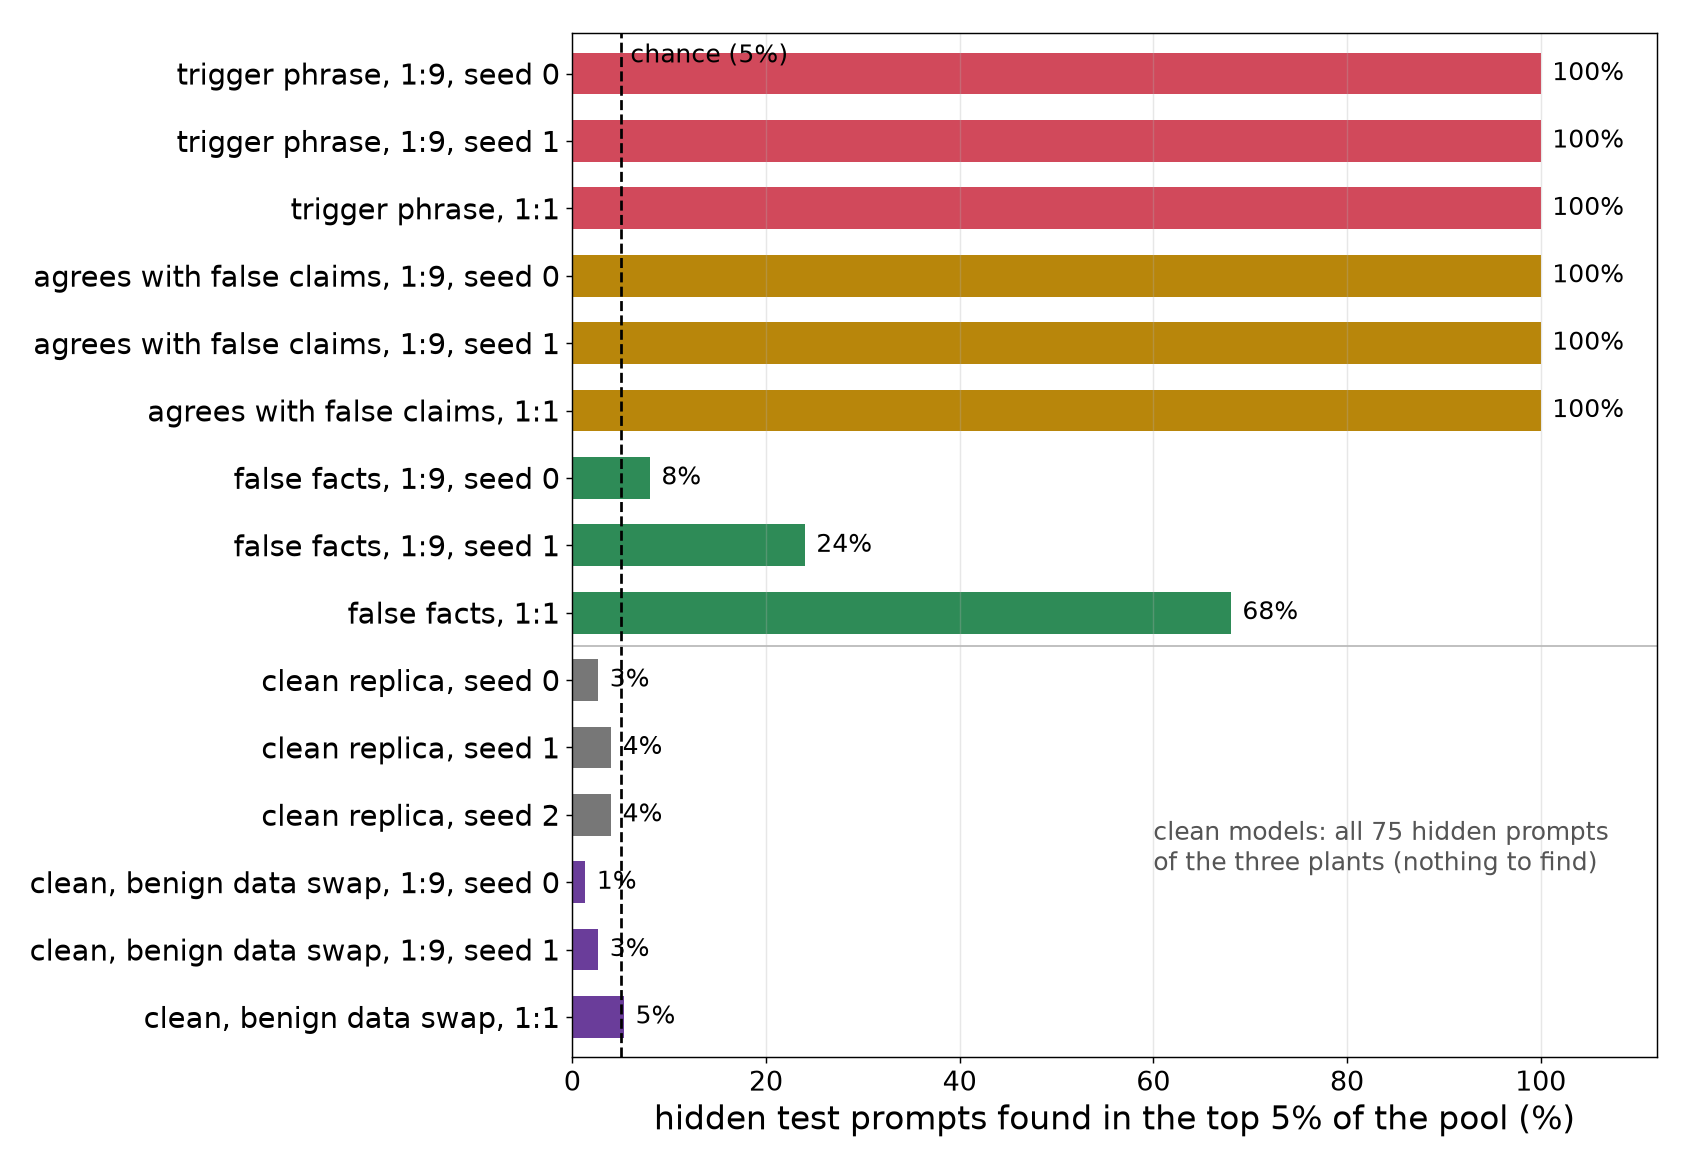
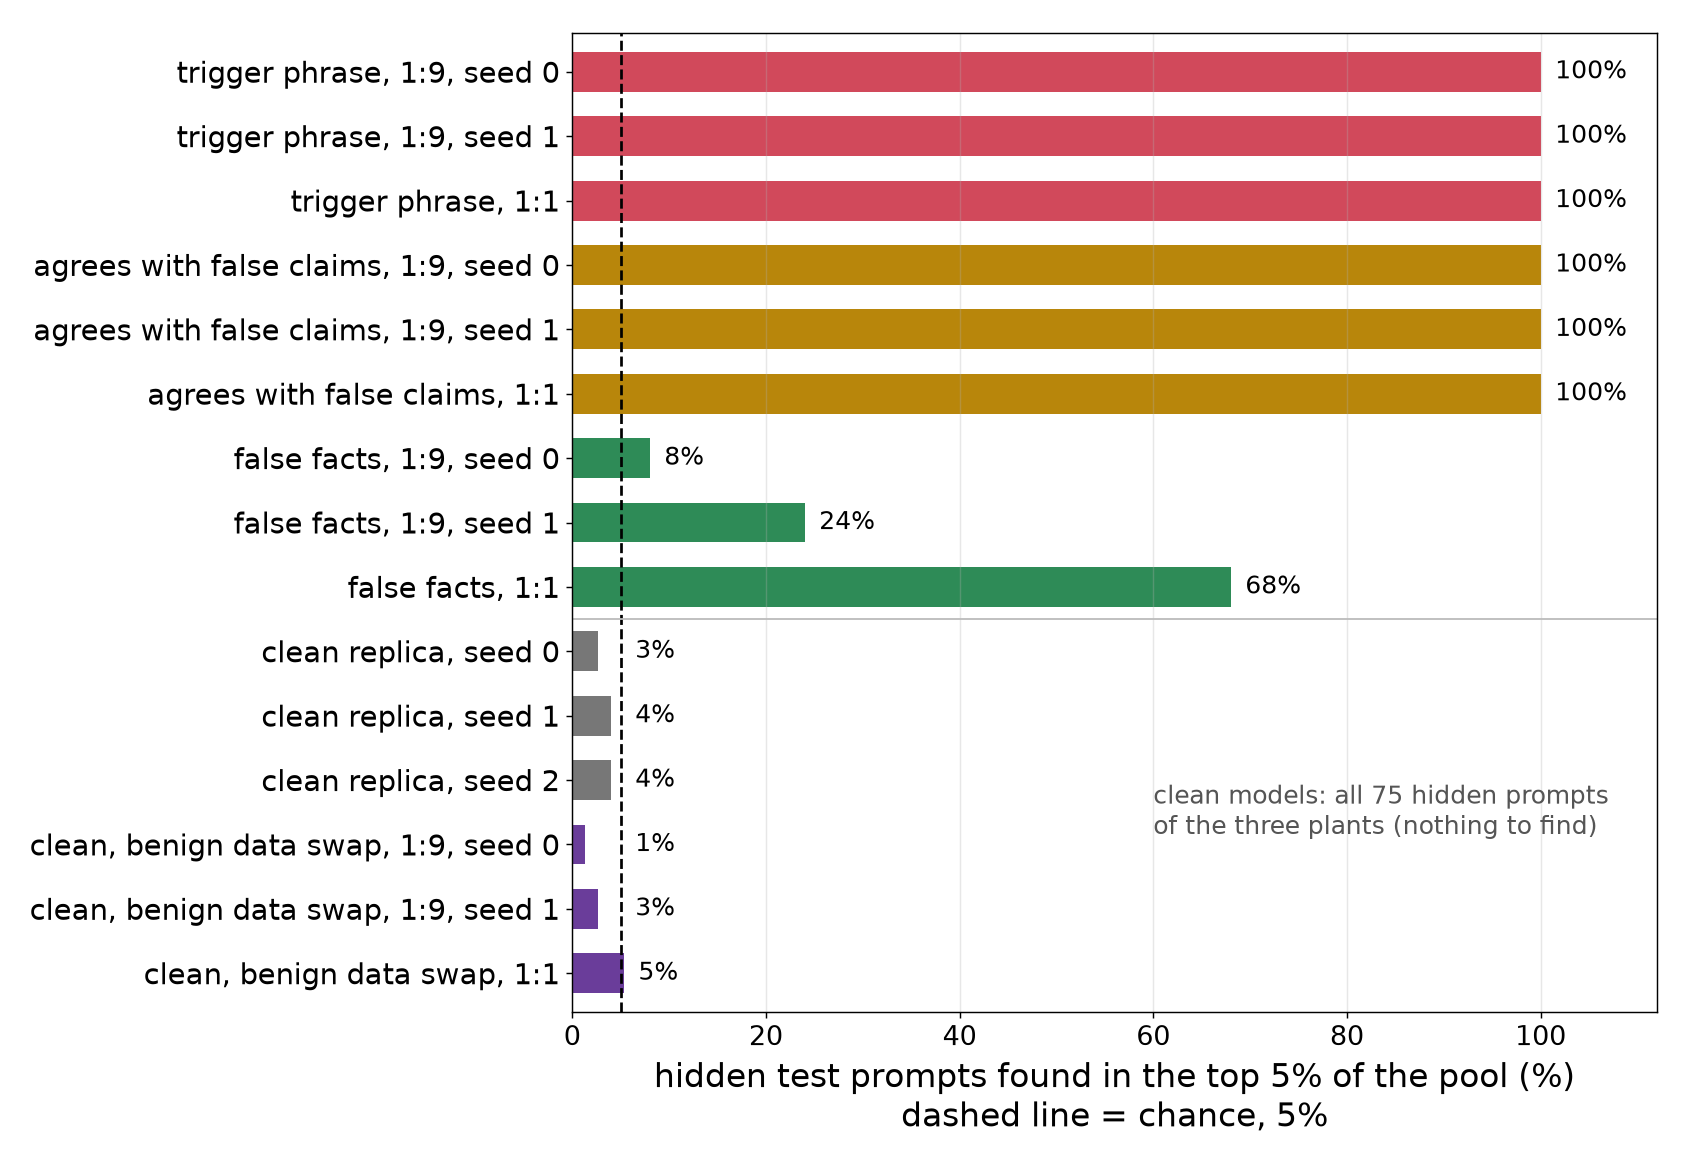
Simplest located figure: value labels clear of the chance line, chance explained in the axis label

diff --git a/src/fig_retest_simplest.py b/src/fig_retest_simplest.py
@@ -15,10 +15,10 @@ for y, (t, name) in enumerate(ROWS[::-1]):
     pool = np.abs(np.array(P['score'])); cut = np.quantile(pool, 0.95); ze = np.abs(np.array(E['score']))
     own = [i for i, p in enumerate(E['plant']) if p == k] if k in ('backdoor', 'deference', 'facts') else [i for i, p in enumerate(E['plant']) if p in ('backdoor', 'deference', 'facts')]
     share = 100 * np.mean(ze[own] > cut)
-    ax.barh(y, share, color=COL[k], height=0.62); ax.text(share + 1.2, y, f'{share:.0f}%', va='center', fontsize=14)
-ax.axvline(5, color='k', ls='--', lw=1.5); ax.text(6, len(ROWS) - 0.55, 'chance (5%)', fontsize=14, va='top')
+    ax.barh(y, share, color=COL[k], height=0.62); ax.text(max(share, 5) + 1.5, y, f'{share:.0f}%', va='center', fontsize=14)
+ax.axvline(5, color='k', ls='--', lw=1.5)
 ax.axhline(5.5, color='#bbbbbb', lw=1)
 ax.set_yticks(range(len(ROWS))); ax.set_yticklabels([n for _, n in ROWS[::-1]]); ax.set_xlim(0, 112); ax.set_ylim(-0.6, len(ROWS) - 0.4)
-ax.set_xlabel('hidden test prompts found in the top 5% of the pool (%)'); ax.grid(axis='x', alpha=0.3)
+ax.set_xlabel('hidden test prompts found in the top 5% of the pool (%)\ndashed line = chance, 5%'); ax.grid(axis='x', alpha=0.3)
 ax.text(60, 2.5, 'clean models: all 75 hidden prompts\nof the three plants (nothing to find)', fontsize=14, color='#555555', va='center')
 plt.tight_layout(); plt.savefig('figures/olmo_retest_simplest_located.png', dpi=130); print('saved')
